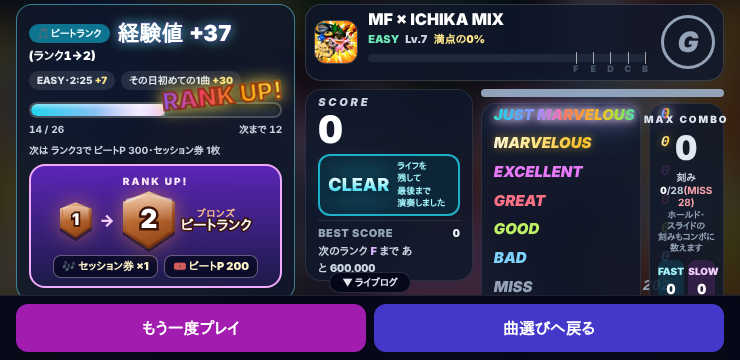
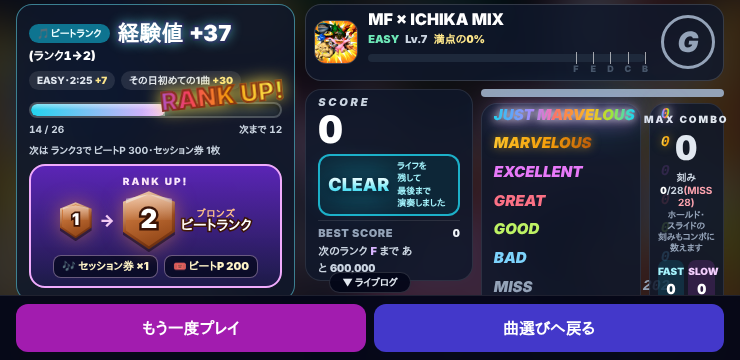
モンヒロビート: 横のリザルトの左の列の下の空きを無くす(左の札を見える高さまで広げる)
Claude-Session: https://claude.ai/code/session_0113GBaBdfST71BQ2tkzG2Hp

diff --git a/monster-hero/index.html b/monster-hero/index.html
@@ -102,7 +102,7 @@ var GAME_BUILD = '0ed0c1253884';
 window.__mhGameBuild = GAME_BUILD;
 // 画面に出す版の日時(BUILD_DATE)。本体の中に書くと、ビルドのたびに本体の中身(と GAME_BUILD)が変わり、
 // 事前ダウンロードにためた本体が使えなくなるので、ここから渡す。tools/stamp-version.js が version.json と同じ値を打つ
-window.__mhBuildDate = '2026-11-20 20:11';
+window.__mhBuildDate = '2026-11-20 20:52';
 // 起動でいちばん大きいのは本体JS(約2.7MB)。いちばん後ろで読むため、そこへ来ると
 // ゲージが止まって見えていた。先に取りはじめて、受け取ったバイト数をそのまま出す。
 // ここで取ったものはブラウザのキャッシュに載るので、下の <script> は取り直さない
@@ -561,9 +561,9 @@ window.__mhBoot.prefetch('game-system.compiled.js', 'game-system.compiled.js?v='
   /* リザルト(横・背が低い画面)。経験値の棒とランクアップの窓(約280px)が最初の画面を埋めて、曲名・点数・判定の数が下へ送らないと見えなかった
      (2026-11-20 点検 V3)。左の列に経験値の棒・ランクアップの窓、右の列に曲名・点数・判定の数を置く。縦・背の高い画面・PCは今までどおり */
   @media (orientation: landscape) and (max-height: 520px) {
-    [data-rhythm-result-scroll] { display: grid; grid-template-columns: minmax(0, .8fr) minmax(0, 1.2fr); column-gap: 10px; align-content: start; padding-top: 8px; padding-bottom: 8px; }
+    [data-rhythm-result-scroll] { container-type: size; display: grid; grid-template-columns: minmax(0, .8fr) minmax(0, 1.2fr); column-gap: 10px; align-content: start; padding-top: 8px; padding-bottom: 8px; }
     [data-rhythm-result-scroll] > * { grid-column: 2; min-width: 0; }
-    [data-rhythm-result-scroll] > [data-player-rank-gain] { grid-column: 1; grid-row: 1 / span 30; margin: 0 0 8px; align-self: start; }
+    [data-rhythm-result-scroll] > [data-player-rank-gain] { grid-column: 1; grid-row: 1 / span 30; margin: 0 0 8px; align-self: start; min-height: calc(100cqh - 16px); display: flex; flex-direction: column; justify-content: space-between; }
     /* 左の飾りのジャケットは、曲の札に同じ絵があるので隠し、場所を右の列へ回す。曲の札・点数・判定の表は少し詰める */
     [data-rhythm-result-hero] > div[aria-hidden="true"] { display: none; }
     [data-rhythm-result-hero] { width: 17%; max-width: 150px; }
@@ -579,9 +579,9 @@ window.__mhBoot.prefetch('game-system.compiled.js', 'game-system.compiled.js?v='
     [data-rhythm-result-song] { padding: 4px 8px; }
     [data-rhythm-result-score-card] { padding-top: 4px; padding-bottom: 4px; }
   }
-  [data-mh-view-rotation="true"] [data-rhythm-result-scroll] { display: grid; grid-template-columns: minmax(0, .8fr) minmax(0, 1.2fr); column-gap: 10px; align-content: start; padding-top: 8px; padding-bottom: 8px; }
+  [data-mh-view-rotation="true"] [data-rhythm-result-scroll] { container-type: size; display: grid; grid-template-columns: minmax(0, .8fr) minmax(0, 1.2fr); column-gap: 10px; align-content: start; padding-top: 8px; padding-bottom: 8px; }
   [data-mh-view-rotation="true"] [data-rhythm-result-scroll] > * { grid-column: 2; min-width: 0; }
-  [data-mh-view-rotation="true"] [data-rhythm-result-scroll] > [data-player-rank-gain] { grid-column: 1; grid-row: 1 / span 30; margin: 0 0 8px; align-self: start; }
+  [data-mh-view-rotation="true"] [data-rhythm-result-scroll] > [data-player-rank-gain] { grid-column: 1; grid-row: 1 / span 30; margin: 0 0 8px; align-self: start; min-height: calc(100cqh - 16px); display: flex; flex-direction: column; justify-content: space-between; }
   [data-mh-view-rotation="true"] [data-rhythm-result-hero] > div[aria-hidden="true"] { display: none; }
   [data-mh-view-rotation="true"] [data-rhythm-result-hero] { width: 17%; max-width: 150px; }
   [data-mh-view-rotation="true"] [data-rhythm-result-hero]:not(:has([data-rhythm-result-hero-gains])) { display: none; }
